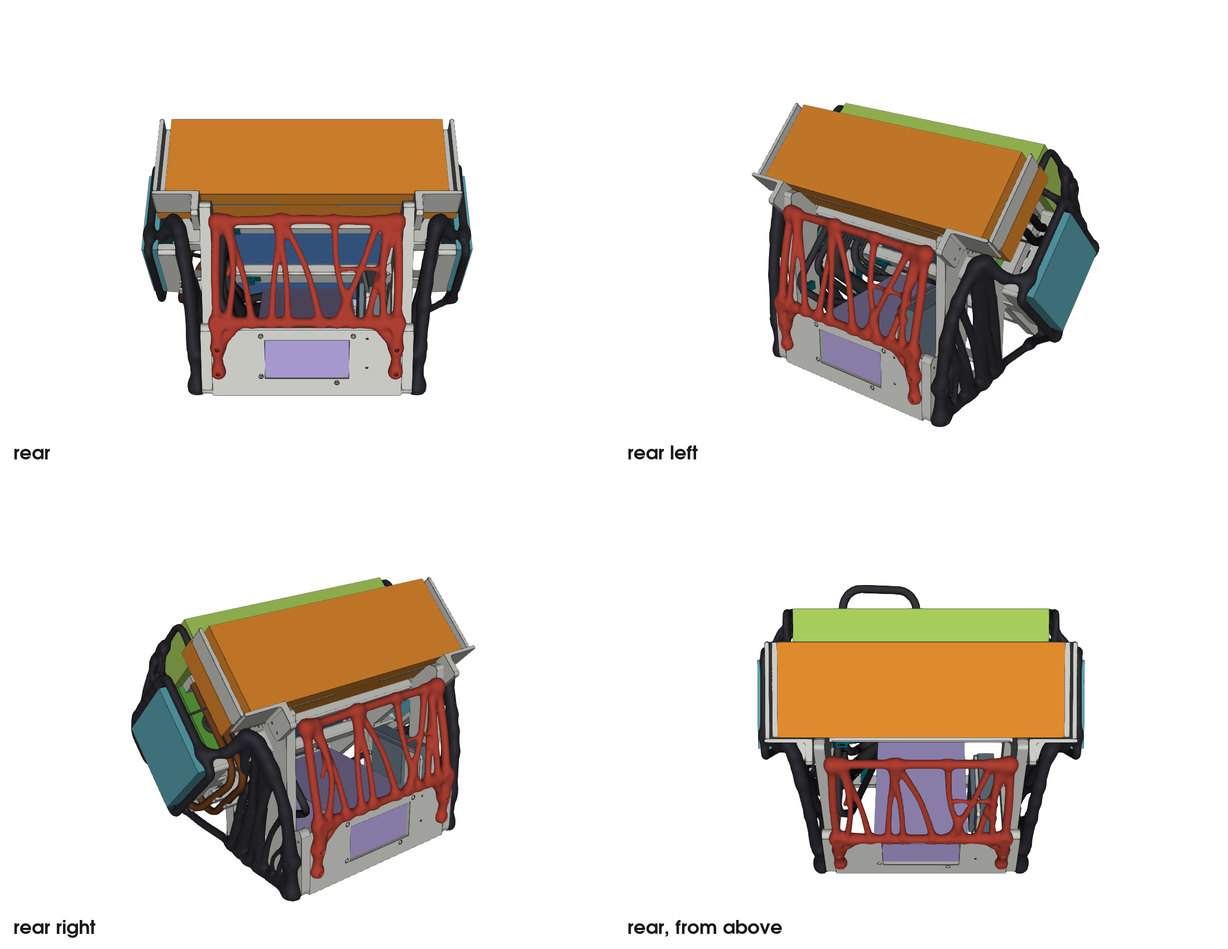
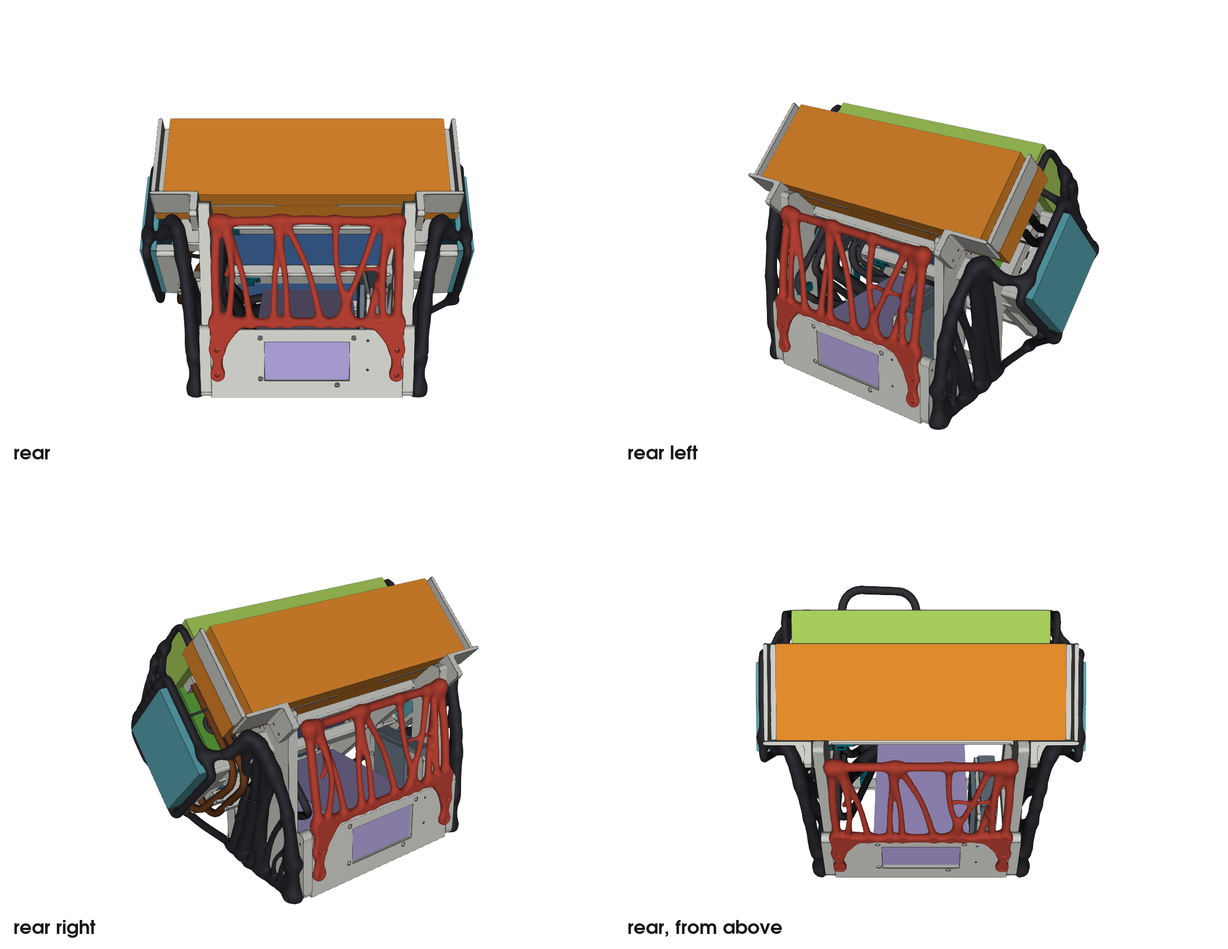
Rework the rear panel's plan after Grok's check: nearly flush, pieces and pad normals spelled out
The fourth sketch stands 10 mm behind the skeleton, not 19: the drive's
body ends at Y 357.6, the plan had taken the bay's envelope for it. The
layer's grid no longer has to grow. The specification now names every
place that assumes a pad's normal is along X, the new pads, their legs,
the counts that move in test_checks.py, and how each new check is defined.

Verified: none (a plan, the sketch scripts outside cad_b6/ and two
pictures; the sketch and both access checks were rerun: 288 x 249 mm,
299 cm3, bundles 52 and 56 mm, hand 44 mm, drive 13.4 mm)

diff --git a/docs/plans/sketches/rear_panel_sketch.py b/docs/plans/sketches/rear_panel_sketch.py
@@ -21,14 +21,14 @@ import vtk
 OUT_PNG = sys.argv[1] if len(sys.argv) > 1 else "rear_panel_sketch.png"
 OUT_NPZ = sys.argv[2] if len(sys.argv) > 2 else None
 
-HALF_X = 132.0            # the frame's centre line: inside the posts' inner faces (142) by its radius and the gap to the skeleton
+HALF_X = 131.0            # the frame's centre line: inside the posts' inner faces (142) by its radius and the gap to the skeleton
 BAR_R = 6.5
-Y_LOW, Z_LOW = 392.0, 104.0       # the lower bar: behind a drive in the bay (its rear end Y 375, up to Z 150) by HOT_GAP and the bar's radius, over the bulkhead's top (Z 92)
+Y_LOW, Z_LOW = 384.0, 104.0       # the lower bar: over the bulkhead's top (Z 92), its rear in line with the layer's flanks (Y 385); a drive's body ends at Y 357.6 and stands up to Z 150
 Y_TOP, Z_TOP = 360.0, 250.0       # the upper bar: behind the posts' rear faces (Y 348), under the 420's fans (rear lower corner Y 338.6, Z 266.9)
 GAP_PIECE = 3.0                   # to the rest of the layer: two pieces that are put on separately
 PADS = [((s * 132.0, 381.0, z), (0.0, 1.0, 0.0)) for s in (1, -1) for z in (64.0, 25.0)]        # all four on the bulkhead's end blocks, rear face (the piece stays 285 mm wide)
-Y_GRID = 406.0                    # the layer's grid ends at Y 394; the panel stands behind that
-Y_FLAT = 401.0                    # nothing of the panel behind this plane: the knots round the screws get a flat rear face
+Y_GRID = 394.0                    # the layer's own grid: the panel fits in it
+Y_FLAT = 391.5                    # nothing of the panel behind this plane: the knots round the screws get a flat rear face
 N_STRANDS, LINKS, SEED = 9, 5, 17
 
 
@@ -63,16 +63,21 @@ def main():
         tie = np.array(corners[1 if q[0] > 0 else -1][0])
         mem.append(("ball", tuple(q + n * (of.KNOT_R - 4.0)), of.KNOT_R, 8.0))
         mem.append(("tube", [q + n * (of.PAD_H * 0.6), (q + n * of.PAD_H + tie) / 2 + n * 3.0, tie], of.bone(8.0, 7.0, 8.0), 8.0))
-        if q[2] > 40:      # a brace from the upper pad inwards and up to the lower bar: the legs carry the whole panel
-            brace = np.array([np.sign(q[0]) * 100.0, Y_LOW, Z_LOW + 1.0])
-            mem.append(("tube", [q + n * (of.PAD_H * 0.6), (q + n * of.PAD_H + brace) / 2 + n * 2.0, brace], of.bone(7.5, 6.5, 7.5), 8.0))
+        if q[2] > 40:      # two more legs fan out from the upper pad inwards and up to the lower bar: over the bulkhead's top edge the panel is only as thick as the room behind the
+            for bx in (115.0, 100.0):      # bulkhead (Y 383 to Y_FLAT), so it is made wide there
+                brace = np.array([np.sign(q[0]) * bx, Y_LOW, Z_LOW + 1.0])
+                mem.append(("tube", [q + n * (of.PAD_H * 0.6), (q + n * of.PAD_H + brace) / 2 + n * 2.0, brace], of.bone(7.5, 7.0, 7.5), 8.0))
     for m in mem:
         F.add(m)
     for b in (hw.RAD360_BS, hw.RAD420_ENV_BS, hw.BOARD_BS):
         F.carve_bs_box(b, of.GAP_HW)
     F.carve_world_box(hw.PSU_W, of.HOT_GAP)
+    F.carve_bs_box(hw.GPU_BS, of.HOT_GAP)
+    for name in hw.FAN_SIDE_NAMES:
+        F.carve_bs_box(hw.fan_side_bs(name), of.GAP_HW)
     for b in (hw.DIMMS_BS, hw.IO_ZONE_BS, hw.GPU_OUT_ZONE_BS, hw.ATX24_BS, hw.EPS_BS):
         F.carve_bs_box(b, of.GAP_KEEP)
+    F.carve_bs_box(of.OUT_PRISM_BS, of.OUT_PRISM_GAP)
     for name, (pair, spec) in hoses.routes().items():
         for h in pair:
             F.carve_polyline(h["pts"][::4], spec["r"] + of.GAP_HW + 1.0)
@@ -104,7 +109,8 @@ def main():
     idx = np.argwhere(F.d < 0)
     lo, hi = idx.min(axis=0), idx.max(axis=0)
     ext = [(float(c[a]), float(c[b])) for c, a, b in zip((F.xs, F.ys, F.zs), lo, hi)]
-    print("panel: %.1f cm3, %.0f g of PETG; X %.1f..%.1f (%.0f), Y %.1f..%.1f (%.0f), Z %.1f..%.1f (%.0f)" % (
+    ext = [(a - F.vox / 2, b + F.vox / 2) for a, b in ext]      # the surface stands up to half a voxel outside the last centre
+    print("panel: %.1f cm3, %.0f g of PETG; X %.2f..%.2f (%.1f), Y %.2f..%.2f (%.1f), Z %.2f..%.2f (%.1f)" % (
         sizes[big - 1], sizes[big - 1] * of.LAYER_RHO, *ext[0], ext[0][1] - ext[0][0], *ext[1], ext[1][1] - ext[1][0], *ext[2], ext[2][1] - ext[2][0]))
     for q, n in PADS:
         i = [int(round((q[k] + n[k] * of.PAD_H / 2 + 0.0 - c[0]) / F.vox)) for k, c in enumerate((F.xs, F.ys, F.zs))]

diff --git a/docs/plans/rear-panel.md b/docs/plans/rear-panel.md
@@ -10,86 +10,114 @@ Asked by the owner on 16 Nov 2026 ("an organic panel at the rear, where the PSU 
 - Screw heads on the bulkhead's rear face: the PSU's four at (69, 80), (-69, 80), (69, 16), (-45, 6) and the drive sled's two at (-89.5, 30) and (-89.5, 76) (X, Z). All are below Z 92.
 - No routed cable crosses the opening. The modular sockets of the PSU are on its front face.
 - The PSU is a box in the model (X -75..75, Y 165..375, Z 0..86), fan face up. No opening for its fan is modelled and no air gap is asserted.
+- A drive in the left bay: the 3.5 inch body is X -119.1..-93, Y 256..357.6, Z 3..150; the 2.5 inch body X -86..-79, Y 271.9..341.7, Z 49.6..150. The sled is X -96.5..-82.5, Y 252..375, Z 0..145: it stands 53 mm above the bulkhead, against its front face.
 - Every pad of the layer has its normal along X today (`hw.ORGANIC_PADS` holds a sign). The field code itself takes any normal.
 - A second solid in the layer's field fails the layer's one-piece check.
 
-## Sketch (main session, 18 Nov 2026)
+## Sketches (main session, 18 Nov 2026)
 
 `docs/plans/sketches/rear_panel_sketch.py` builds the panel in its own field on the layer's grid, carves it like the layer and draws it on the whole design: `previews/b6_rear_panel_sketch.png` (the panel in red so that it reads) and `previews/b6_rear_panel_sketch_dark.png` (as it will look). `docs/plans/sketches/rear_panel_access.py` runs `zone_access` and `drive_access` with the panel added.
 
-The first sketch had two pads on the bulkhead and two on the posts' rear faces. It came out 320 mm wide: a pad on a post stands at X 150 and reaches X 158. That does not fit the bed, and its lower bar stood 8.1 mm from a drive in the bay.
+1. Two pads on the bulkhead and two on the posts' rear faces: 320 mm wide (a pad on a post stands at X 150 and reaches X 158). It does not fit the bed. Its strands leaned over a drive's upper rear corner, 8.1 mm from it.
+2. Four pads on the bulkhead, the lower bar at Y 392: fits, but the case got 19 mm deeper. That depth came from a wrong reading: the main session took the bay's envelope (Y 375) for the drive's end, which is at Y 357.6.
+3. The lower bar at Y 379: the sled's top bit into the bar on the left only.
+4. **The one this plan builds.** The lower bar at Y 384.
 
-The second sketch, which this plan builds:
+The fourth sketch:
 
 - **A frame with a film of strands in it**, like the films of the layer: a lower bar over the bulkhead's top, an upper bar under the 420, two side bars, nine strands and five cross-threads between the bars.
-- **Four pads, all on the bulkhead's end blocks**, rear face, at X ±132, Z 64 and Z 25, screwed from behind. Two legs on each side go down to them, and a brace from each upper pad runs inward and up to the lower bar.
-- **290 mm wide** (X -145..144.5), 248 mm tall (Z 15..262.5), Y 347.5..400. 319 cm³, 405 g of PETG solid.
-- **It stands back.** A drive in the bay ends at Y 375 and stands up to Z 150, 58 mm above the bulkhead. The layer keeps 10 mm from a drive, so the lower bar's centre line is at Y 392 and the panel's rear is flat at Y 401. The case gets 19 mm deeper at the rear: 382 to 401 mm.
+- **Four pads, all on the bulkhead's end blocks**, rear face, at X ±132, Z 64 and Z 25, screwed from behind. A leg goes from each pad up to the frame's lower corner, and two more legs fan out from each upper pad inward to the lower bar: over the bulkhead's top edge the panel can only be as thick as the room behind the bulkhead (Y 383 to 391.5), so it is made wide there.
+- **288 mm wide** (X -144.25..143.75), 249 mm tall (Z 14.25..263.25), Y 346.75..391.75. 299 cm³, 380 g of PETG solid.
+- **Its rear is flat at Y 391.5**, 6.5 mm behind the layer's flanks (Y 385) and 10 mm behind the skeleton (Y 382). The layer's grid (to Y 394) holds it; the grid does not change.
 
-Measured on the second sketch:
+Measured on the fourth sketch:
 
 - `zone_access` with the panel: nothing changes. A bundle of 52 mm still leaves from the board's connectors and 56 mm from the card's outputs; the hand's 44 mm stays.
-- `drive_access` with the panel: the drive in its seat is 18.8 mm from the layer (10 asked). The way out is closed: the sled with its drive is 150 mm tall and comes out backward and upward through this opening. **The panel comes off before a drive does.**
+- `drive_access` with the panel: a drive in its seat is 13.4 mm from the layer (10 asked), the sled 2.1 mm (2 asked of the skeleton). The way out is closed: the sled with its drive is 150 mm tall and comes out backward and upward through this opening. **The panel comes off before a drive does.**
 
 ## Decisions taken by the main session, for the owner to confirm
 
 | Decision | Why | The other way |
 |---|---|---|
-| One piece, four screws on the bulkhead, the top edge free | it stays 290 mm wide and prints flat; all four screws are driven from behind with a straight driver | two mirrored halves, each also screwed to a post: stiffer at the top, a seam down the middle, two prints, six or eight screws |
-| The panel stands 19 mm behind the bulkhead's face | 10 mm from a drive in the bay | flush with the layer's flanks (Y 385) if the drive bay is given up |
+| One piece, four screws on the bulkhead, the top edge free | it stays under 290 mm wide and prints flat; all four screws are driven from behind with a straight driver | two mirrored halves, each also screwed to a post: stiffer at the top, a seam down the middle, two prints, six or eight screws |
+| The panel's rear stands 10 mm behind the skeleton's | the lower bar has to clear the sled's top, and the legs need thickness behind the bulkhead | none found that keeps the bay |
 | The panel is taken off to take a drive out | the sled's way out is this opening | a panel with the left third open |
 | The panel covers the opening only; the bulkhead's face stays bare apart from the legs | the PSU's and the sled's screw heads and the IEC window are there | strands over the bulkhead's face round the window |
-| The same room is kept on the right, where no bay is built | the panel stays mirrored | the right side closer to the bulkhead |
+| The same room is kept on the right, where no bay is built | the panel stays mirrored | the right side closer in |
 
-The stiffness of a panel held at the bottom only is not measured yet. By hand (a beam on two legs) a 30 N push at the top gives 5 to 8 MPa in the legs and 2 to 4 mm of movement; the limits are 10 MPa and 5 mm. `organic_strength.py` decides. If it fails, the two-halves design is next, and the owner is told.
+The stiffness of a panel held at the bottom only is not measured yet. By hand (a beam on its legs) a 30 N push at the top gives about 5 MPa in the legs and 2 to 4 mm of movement; the limits are 10 MPa and 5 mm. `organic_strength.py` decides. If it fails, the two-halves design is next, and the owner is told.
 
 ## Revision 17: specification
 
+The reference for the panel's shape and numbers is `docs/plans/sketches/rear_panel_sketch.py` as committed with this plan (the fourth sketch). Where this text and the sketch differ, this text holds, and the implementer says so in the report.
+
 ### 1. The layer has named pieces
 
-`organic_frame.py` builds pieces. A piece is a name, its members, its pads and its own field on the common grid. Today's layer is the piece `main`; the panel is `rear_panel`.
+`organic_frame.py` builds pieces. A piece is a name, its members, its pads and its own field on the common grid. Today's layer is the piece `main`; the panel is `rear_panel`. The grid does not change.
 
-- **`main` does not change.** A differential check proves it: the new `main` field equals the field of the commit before, voxel for voxel, on the old grid's extent (keep the old `out/organic/field.npz` beside the new one to compare; say in the report how many voxels differ and where).
-- **The grid** grows in Y from 394 to 406 (`shell_concepts.Y1`), for every piece. Nothing else of the grid changes.
-- **One piece, one body:** each piece is one connected solid that holds all of its own pads. Loose crumbs under `CRUMB_CM3` are dropped per piece, as now.
-- **Pieces keep `GAP_PIECE` = 3 mm from each other.** A later piece is carved back from the earlier ones. A check measures the least distance between any two pieces and fails under 3 mm less one voxel.
-- **`out/organic/field.npz`** keeps `d` as the union of all pieces (what every reader takes as "the layer"), and gains `pieces` (the names) and one array per piece. `pads` and `names` gain the piece of each pad. Every reader that takes `d` keeps working unchanged.
+- **`main` does not change.** A differential check proves it: the new `main` field equals the field of the commit before with `np.array_equal`, no tolerance (copy the old `out/organic/field.npz` aside before the first run and compare `d` of `main` with the old `d`; report the number of voxels that differ).
+- **One piece, one body:** each piece is one connected solid that holds all of its own pads. Loose crumbs under `CRUMB_CM3` are dropped per piece, as `build()` does now, and what is left must be one body (`check()`'s test, run per piece, before the union is made). The join test of a pad samples a point of the pad's disc beside its screw: the offset is across the pad's normal, not along Y.
+- **Pieces keep `GAP_PIECE` = 3.0 mm from each other** (a new constant in `organic_frame.py`). A later piece is carved back from the earlier ones. A check measures the least distance between the solids of any two pieces and fails under `GAP_PIECE` less one voxel.
+- **`out/organic/field.npz`:** `d` is the union of all pieces, which is what every present reader takes as "the layer". `pads` stays an (n, 6) array (centre and normal) and `names` stays the pads' names. New arrays: `pieces` (the pieces' names), `pad_piece` (the piece of each pad, in the order of `names`), and one field per piece named `d_<piece>`. No column is added to `pads`: `organic_strength.py` reads `row[3:]` as the normal.
 
 ### 2. A pad has a normal
 
-`hw.ORGANIC_PADS`: each row carries the pad's outward normal as a unit vector and the piece it belongs to, in place of the sign along X. The twelve existing rows keep their places and normals (±X) and belong to `main`. `frame_v0.organic_pilots` cuts the pilot along minus the normal. The pad's disc, bore, driver channel, knot, stub, `pad_fits`, `pad_clear` and `driver_blocked` in `organic_frame.py` use the normal. Nothing may assume X.
+`hw.ORGANIC_PADS`: each row carries the pad's outward normal as a unit vector and its piece, in place of the sign along X. The twelve existing rows keep their places and normals (±X) and belong to `main`.
 
-Four new rows, piece `rear_panel`, part `psu_bulkhead`, normal (0, 1, 0), centres on the rear face Y 381 (derive Y from the bulkhead's own constants): (132, 381, 64), (132, 381, 25), (-132, 381, 64), (-132, 381, 25). `psu_bulkhead` gets the four pilots (`organic_pilots`), 6.7 mm deep into its 12 mm end blocks. The end bolts' pilots of the bulkhead stand at (±142, 375, 5) and (±142, 375, 80) along X: checks 7 and 15 judge the walls. If a pad's place fails a check, move it along Z inside the end block (stations Z 13 to 69 passed Grok's probe) and report; do not relax the check.
+Everything that reads a row follows, and nothing may assume X. Grok's list: `frame_v0.organic_pilots` (cuts along minus the normal; for a mirrored part the normal's X flips) and its callers; `frame_v0.mount_points` (check 5 probes the pilot: along the normal, not along X); in `organic_frame.py` `face_hit`, `is_pilot_of`, `pad_fits`, `pad_clear`, `driver_blocked`, `pad_pilot_failures`, `place_anchors`, the pad's join test; `test_checks.py`'s `anchors_of`. The row in `FASTENERS` and its note ("6 a side ... along X") follow too.
 
-Consequences to carry through: the bill's `organic` row and its insert and M3 x 10 counts (16 pads; inserts 108), check 5's mount count for `organic`, `assembly_access.py`'s `BILL` (the organic row is counted there, not judged), `parts_manifest.py --expect psu_bulkhead`.
+Four new rows, piece `rear_panel`, part `psu_bulkhead`, normal (0, 1, 0), centres on the bulkhead's rear face:
+
+| Pad | Centre |
+|---|---|
+| `panel_hip_R` | (132, 381, 64) |
+| `panel_foot_R` | (132, 381, 25) |
+| `panel_hip_L` | (-132, 381, 64) |
+| `panel_foot_L` | (-132, 381, 25) |
+
+X 132 is the middle of the end block (`(BULK_BLOCK_X + X_IN) / 2`), Y 381 is `BULK_Y1`; the rows are literals in `hardware.py` like the other twelve, and the existing check that a pad sits on its part's face on a pilot of that part is what holds them to the part. `build_psu_bulkhead` gets `organic_pilots("psu_bulkhead")` before `drill`, as `front_sill` does. The pilot is `joint_pilots(..., hw.ORGANIC_PAD_H)` like every organic pad: stack 5, M3 x 10, the bore 6.7 mm deep (`hw.M3_PILOT_DEPTH`).
+
+Measured by Grok on the built bulkhead with the four cutters: 7.8 mm of wall to the block's outer face (1.6 asked), 5.3 mm of floor (1.2 asked), 12.0 and 15.9 mm to the nearest end bolt's cutter, 66.8 mm to the window. Check 7 (`check_hole`, `pilot_walls`) judges the walls; check 15 counts the screws and inserts. If a pad's place fails a check, move it along Z inside the end block and report; do not relax the check.
+
+A pad may name its own legs. `BONE_OF` ties a pad to a bone by the automatic stub; the four panel pads use the legs declared with the panel (below) and get no automatic stub. `place_anchors` still tests each of them (`pad_fits`, `pad_clear`, `driver_blocked`).
+
+**Counts that move with the model** (the damage each test does stays the same; list every changed expectation in the report with its old and new value): organic pads 12 to 16 (`EXPECTED_MOUNTS["organic"]`, which should be derived from `hw.ORGANIC_PADS` instead of typed; the cases at `test_checks.py` about 1405 to 1425 and 1917, "11 positions" becoming 15), inserts 104 to 108, washers 93 to 97, M3 x 10 screws 16 to 20, `assembly_access.py`'s `BILL` (the organic row is counted there, not judged). `parts_manifest.py --expect psu_bulkhead` must pass.
 
 ### 3. The panel
 
-Members as in `docs/plans/sketches/rear_panel_sketch.py` (the second sketch; read it, it is the reference for shape and numbers), written in `organic_frame.py`'s own style: named bones `panel_low`, `panel_top`, `panel_side_L`, `panel_side_R`, the film between the lower and the upper bar, the legs and braces to the pads.
+Written in `organic_frame.py`'s own style, as members of the piece `rear_panel`:
 
-- The frame's centre line at |X| 131 (the sketch's 132 gave exactly 290 mm; the piece must be under 290 mm wide: check).
-- Lower bar: centre Y 392, Z 104. Upper bar: centre Y 360, Z 250. Radius 6.5.
-- Nine strands, five cross-threads, the layer's rules for strand radii (`STRAND_R_*`, `STRAND_SLENDER`).
-- Rear limit: nothing of the panel behind Y 401. The knots round the screws get a flat rear face there.
-- Carved like `main` (the same gaps to hardware, hoses, keep-outs and skeleton), and from: each body of `hw` `drive_left` and its mirror image on the right, by `HOT_GAP`; `main`, by `GAP_PIECE`.
+- Named bones `panel_low` (centre line (-131, 384, 104), (0, 386, 106), (131, 384, 104)), `panel_top` ((-131, 360, 250), (0, 362, 253), (131, 360, 250)), `panel_side_L` and `panel_side_R` (from the lower to the upper corner, bowed 2 mm outward and 2 mm back at mid-height), radius 6.5, blend `K`, a ball of radius 9 on each corner.
+- The film between `panel_low` and `panel_top`: `film_members`, nine strands, five links, seed 17, bar radii 6.5, sag (0, 1, 0.3) by 6 mm.
+- Legs: from each pad a tube `bone(8, 7, 8)` to the frame's lower corner on its side; from each `panel_hip` pad two more tubes `bone(7.5, 7, 7.5)` to the lower bar at |X| 115 and |X| 100 (Y 384, Z 105). A knot round each pad as for the other pads.
+- Rear limit: nothing of the panel behind Y 391.5 (a named constant). The knots get a flat rear face there.
+- Carved exactly as `build()` carves `main`, in the same order (that includes the card, the side fans, the out prism, the sill, the desk, the front plane and the |X| limit, which the sketch leaves out because they are far away), and also from: each body of `hw`'s `drive_left` and its mirror image on the right, by `HOT_GAP` (take each body's box with `frame_v0.exact_box`); `main`, by `GAP_PIECE`.
 
-### 4. Checks, each with a case in `test_organic.py` that damages the field and expects the failure
+### 4. Checks
 
-- Each piece one body with its pads; pieces 3 mm apart.
-- **Bed:** each piece's extent along each world axis. For `rear_panel` X and Z must be at most `frame_v0.MAX_PART` (290). `main` is not split yet: report its extents, do not fail on them, and say so in the report.
-- **Screw heads stay reachable:** no voxel of any piece in a cylinder 12 mm across and 100 mm long behind (along +Y from) each screw head on `psu_bulkhead`'s rear face. Take the positions from the part's holes (the `6-32cb` counterbores and the clearance holes of the sled's flange screws), not from typed numbers.
-- **The layer keeps 10 mm from a drive, the panel included** (`drive_access.py` reports and fails on this already; the panel must pass it).
-- **A drive comes out with the panel off.** `drive_access.py` computes the way out without the pieces named in a new constant (`REMOVED_FOR_DRIVE = ("rear_panel",)`), says so in its report, and still measures the seat's distance against every piece. A test proves both halves: with the panel counted there is no way out, without it the least tilt is what it was (28° of 30°).
-- **`zone_access.py`** with the union: the bundles' 52 and 56 mm and the hand's 44 mm must not get worse.
-- **`organic_strength.py`:** every piece is pushed, each fixed at its own pads. Limits unchanged (10 MPa, 5 mm). Report each piece's worst stress and largest movement. If the panel does not pass, stop there: do not thicken, move or tune anything, report the numbers and where.
-- The existing checks of `main` (rings whole, nothing beyond |X| 260, the three empty boxes) keep working on the union.
+New checks in `organic_frame.py`, each a function of the saved arrays so that `test_organic.py` can damage a copy and expect the failure (one case per check at least):
+
+- Each piece one body with its pads. Pieces `GAP_PIECE` apart.
+- **Bed:** a piece's extent along a world axis is the span of its solid voxels' centres plus one voxel. `rear_panel`'s X and Z extents must not be over `frame_v0.MAX_PART` (290). `main` is not split yet: its extents are reported and not failed, and the report says why.
+- **Screw heads stay reachable:** no solid voxel of any piece in a cylinder behind each screw head on `psu_bulkhead`'s rear face. The cylinder starts on the rear face and runs along +Y for `HEAD_REACH` (45, the layer's own driver channel length), radius `(hw.UNC6_HEAD_D + hw.TOOL_PLAY) / 2` (3.6, which is also `HEAD_R`). The heads are found from the part's holes: every hole of kind `6-32cb` (its mouth is on the rear face) and every hole of kind `M3c` on this part (the sled's flange screws; the head is at the hole's end with the larger Y). Six cylinders today; the count is reported.
+
+Changes to other scripts:
+
+- **`drive_access.py`:** `load_field` keeps the per-piece arrays. `bay_maps` builds the organic obstacle map without the pieces named in a new constant `REMOVED_FOR_DRIVE = ("rear_panel",)`; `organic_gap` (the 10 mm between the layer and a drive in its seat) keeps using the union. The report says which pieces were taken off. A test in `test_checks.py`'s drive section proves both halves: with the panel counted there is no way out; with it removed there is one within the tilt limit. The least tilt is reported, not pinned.
+- **`zone_access.py`:** no change. Its floors stay 40 and 44 mm. The main session compares the report with today's 52, 56 and 44 mm.
+- **`organic_strength.py`:** one run per piece: the piece's own field, fixed at its own pads, `N_POINTS` pushes on it. The limits stay 10 MPa and 5 mm. The report gives each piece's worst stress and largest movement and one headline. If the panel does not pass, stop there: do not thicken, move or tune anything; report the numbers and where the worst is.
+- `check_budgets.py`, `organic_trial.py`, `render_full.py`, `test_organic.py`'s existing cases: they read `d` and keep working; say so after running them.
 
 ### 5. What must not happen
 
-- No existing case of `test_organic.py` or `test_checks.py` removed or weakened; counts reported before and after.
-- No hardware number retyped: the bulkhead's face, the end blocks, the drive's box and the screw heads come from `hardware.py` and `frame_v0.py`.
-- `cad_b6/budgets.json` is not edited. The organic volume will pass its ratchet (1741.7 cm³ + 2 %); `check_budgets.py` is expected to fail on that one line, and the main session re-records it in a commit of its own.
+- No existing case of `test_organic.py` or `test_checks.py` removed or weakened; counts reported before and after (`test_organic.py` has 26 cases and no pin: add a pinned count, as `test_checks.py` has).
+- No hardware number retyped.
+- `cad_b6/budgets.json` is not edited. With the panel the layer is about 2040 cm³; `check_budgets.py` will fail on the line "organic layer, ratchet" (limit 1776.5 cm³) and pass the PETG stock line. The main session re-records the figure in a commit of its own.
 
 ### 6. Reruns
 
-By the implementer: `frame_v0.py`, `organic_frame.py`, `test_organic.py`, `drive_access.py`, `zone_access.py`, `organic_strength.py`, `parts_manifest.py --expect psu_bulkhead`, `assembly_access.py`, `test_assembly.py`, `test_checks.py` once at the end. By the main session again, plus `cables.py`, `strength.py`, `check_budgets.py`, `render_full.py`.
+By the implementer, in this order: `frame_v0.py`; `parts_manifest.py --expect psu_bulkhead`; `organic_frame.py`; the differential check of `main`; `test_organic.py`; `drive_access.py`; `zone_access.py`; `organic_strength.py` (about 15 minutes); `assembly_access.py` and `test_assembly.py`; `test_checks.py` once at the end (it rewrites the suite's record; every `cad_b6/*.py` and the field are in its digest). By the main session again, plus `cables.py`, `strength.py`, `check_budgets.py`, `render_full.py`.
+
+## Grok's check of the first specification (18 Nov 2026)
+
+`code-analysis` read the first text against the code, built the bulkhead and measured the four pilots. What it changed: the union alone fails the layer's one-piece check, so that check runs per piece; a column on `pads` would break the strength script, so the piece of a pad is a parallel array; "nothing may assume X" needed seven more places than the text named; the new pads had no names and no way to a bone; the legs were ambiguous between automatic stubs and the sketch's tubes; the pinned counts in `test_checks.py` that move (12, 11, 104, 93, 16) were not named; the bed test and the "extent" of a voxel piece were undefined; the screw-head cylinder had typed numbers; "checks 7 and 15 judge the walls" was wrong for check 15; the drive's end was given as Y 375 where the body ends at Y 357.6 (which also took 9 mm off the panel's depth and made the longer grid unnecessary). Confirmed: bitwise equality of `main` is achievable; the four pilot places clear every wall rule; the readers of `d` do not hard-code the grid's shape.
